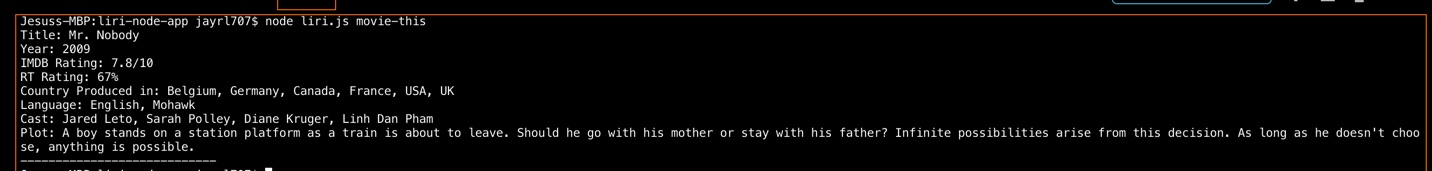
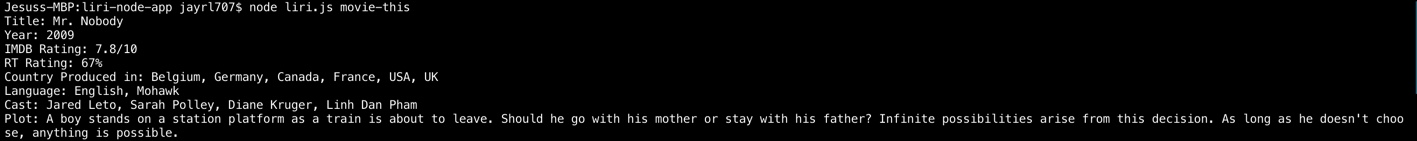
updated js and added screenshots

Changed region(s): [[0.0, 0.0, 1.0, 1.0], [0.7763, 0.0, 0.9626, 0.0284], [0.1553, 0.9929, 0.2174, 1.0]]

diff --git a/liri.js b/liri.js
@@ -39,7 +39,7 @@ var movieThis = function() {
       console.log("Language: " + response.data.Language);
       console.log("Cast: " + response.data.Actors);
       console.log("Plot: " + response.data.Plot);
-      console.log("----------------------------");
+
     }
   );
 };
@@ -56,11 +56,11 @@ var concertThis = function() {
 
             console.log("Artist: "+response.data[0].lineup);
             console.log("Venue name: "+response.data[0].venue.name);
-            console.log("Location: "+response.data[0].venue.city +", "+ response.data[0].venue.country);
+            console.log("Location: "+response.data[0].venue.city +", " + response.data[0].venue.country);
             venueDate = response.data[0].datetime;
             formatDate = moment(venueDate).format("MM/DD/YYYY");
-            console.log("Date: "+formatDate);
-            console.log("----------------------------");
+            console.log("Date: "+ formatDate);
+
         }     
     });
 };
@@ -125,7 +125,7 @@ if (input === "spotify-this-song") {
 var log = fs.createWriteStream(__dirname + "/log.txt", {flags: "a"});
 var stdout = process.stdout;
 
-console.log = function(x){
-    log.write(util.format(x)+"\r\n");
-    stdout.write(util.format(x)+"\r\n");
+console.log = function(logger){
+    log.write(util.format(logger)+"\r\n");
+    stdout.write(util.format(logger)+"\r\n");
 }
